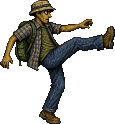
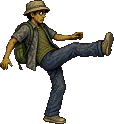
Co-op: sestreleny lezi, nez ho druhy zvedne; nocni prace hosta i u druheho
Sestreleny spravce v co-opu lezi, kde padl (druhy ho vidi lezet, noc ho
necha), druhy ho E zvedne (35 zdravi), jinak po 90 s schody kancelare.
Nocni prace planuje host a druhy stroj je ted vidi taky: seznam TONIGHT,
pager, smerovka, "sorted" kdyz je kdokoli vyresi. Ohne hosta se posilaji
kazde 4 s (palivo, zhave uhliky, hranice). Hoste s kopem a palkou
pregenerovani zrnite a znepokojive jako originaly (byli moc vesele).

coop_check: spolecne sestreleni a zvednuti; druhy spi ve stanu (jedna
postel v kancelari); uklid v chatce: kurzor na viditelne skvrne, jen
pred stiskem, druhy se jen otoci hlavou (oba sdileji jeden kurzor OS).

Changed region(s): [[0.0, 0.0, 1.0, 1.0]]

diff --git a/godot/tools/coop_check.py b/godot/tools/coop_check.py
@@ -48,7 +48,7 @@ def diff_list(name, a, b, failures):
 def main():
     os.makedirs(OUT, exist_ok=True)
     for f in os.listdir(OUT):
-        if f.endswith(".json") or f.endswith(".png") or f in ("host_up", "client_ready"):
+        if f.endswith(".json") or f.endswith(".png") or f in ("host_up", "client_ready", "task_host", "task_client"):
             os.remove(os.path.join(OUT, f))
     host = run("host")
     time.sleep(2.0)
@@ -125,6 +125,17 @@ def main():
             failures.append("the host's kicks are not seen on the other court %s" % cc["court_kicked"])
         if not hc["att_mate"] or not cc["att_mate"]:
             failures.append("the other warden is not seen on the court (host %r, client %r)" % (hc["att_mate"], cc["att_mate"]))
+    # Knocked down: the other warden lies there (seen so on the host's), and is got up.
+    cd, hd, cl = load("client_down"), load("host_down"), load("client_lifted")
+    if cd is None or hd is None or cl is None:
+        failures.append("missing knocked-down fingerprints")
+    else:
+        if not cd["down"]:
+            failures.append("the other warden did not go down (%s)" % cd["hp"])
+        if not hd["partner_down"] or hd["other_pose"] != "prone":
+            failures.append("the host does not see the other warden lying there (%s, %s)" % (hd["partner_down"], hd["other_pose"]))
+        if cl["down"] or cl["hp"] != 35:
+            failures.append("the other warden was not got up (down %s, hp %s)" % (cl["down"], cl["hp"]))
     # The room: the other's job done in the host's camp, the host's back in the other's.
     hr, cr = load("host_room"), load("client_room")
     if hr is None or cr is None:
@@ -246,6 +257,10 @@ def main():
     if "Coop: the night, here: knock" not in ctext:
         failures.append("the night director's knock did not reach the other warden")
     # Sleep: alone in bed the night stays; both in bed, both wake on the next morning.
+    # One bed in the back room: the other is turned away from it (they sleep in a tent).
+    crb = load("client_refused_bed")
+    if crb is not None and crb["in_bed"]:
+        failures.append("both wardens lie in the one bed of the back room")
     hz, hm, cm = load("host_waiting"), load("host_morning"), load("client_morning")
     if hz is None or hm is None or cm is None:
         failures.append("missing sleep fingerprints (waiting %s, host morning %s, other morning %s)" % (hz is not None, hm is not None, cm is not None))

diff --git a/TODO.md b/TODO.md
@@ -18,6 +18,7 @@
   - 18. 10.: the attractions for the warden, alone or two (`scripts/attractions/warden_play.gd`): E by one and you are in it as a guest is, from your own eyes: sit by the fire (a log on from the pile, LMB a sausage over the coals and eaten when done, Q the guitar), on a bench, at the picnic table, in the hammock, on the swing (LMB pumps) or the seesaw, down the slide (up the ladder, LMB at the top), at the nohejbal net and the ping-pong table (LMB in time kicks or hits the ball coming to you; missed, it rolls off and you fetch it). The other warden is seen in them (their figure placed by the same attraction); the ball games are the host's (each flight sent over, the other's swings sent to the host), the logs go on through the host. New sprites for the four wardens (guitar, sausage, kick, bat, ladder, swing) and the guests' kick and bat
 - [ ] 5  The night for two: the director knows both; enemies hunt either; sometimes only one sees it; a hidden sanity per warden (no meter, never named)
   - 18. 10. (`scripts/coop/coop_night.gd`): the host's enemies hunt either warden (the other has a stand-in body there, `coop_proxy.gd`), whoever is out and alone in the dark sooner, and let go of one gone indoors; their hits and feed lines go to whom they hunt; the other machine shows them as on the host's (sprites, lights, sounds, 10x a second). Some are only for the one hunted (the other sees and hears nothing). The hidden sanity: hits, an enemy in front of you, the dark alone wear it down, day, company and sleep give it back; low, the night picks you sooner, more is only yours, and you glimpse the other warden where they are not. Down in co-op you come to on the office step instead of the game ending. The night director presses on one warden at a time (the one out, else the one with less sanity, held 40 s); its touches happen on that one's machine, and on both when they are together. Omens are each warden's own
+  - 18. 10. (later): tonight's jobs are the host's on the other machine too (the TONIGHT list, the pager, the waypoint, "sorted" when either sorts one out: `night_jobs.coop_take`); knocked down you lie there till the other gets you up with E (90 s, else the office step; the night lets go of you meanwhile); the host's campfires sent every 4 s
 - [ ] 6  Saves of a co-op camp (host), joining a camp already going, a dropped line and back, a name per warden
   - 18. 10.: the host's saves are marked co-op and the CO-OP page's Last camp hosts the newest one (its day and till beside it); joining a camp already going works (the whole camp on joining); a dropped line: the other's figure goes, the joining one is back at the menu and can join again; the other warden is called by the name they chose (Pepa, Ondra, Jana, Bara) in the feed
 

diff --git a/AGENTS.md b/AGENTS.md
@@ -328,6 +328,11 @@ it from `_activate_runtime_enemy_for_night`). Add a row to DESIGN.md §5 and to
   `mate_place()` (remote_player.gd, state "att"). The ball games are the host's in
   co-op: `_launch` sends each flight (`Coop.send_play` "shot"), the other machine only
   follows (`coop_take_shot`) and sends its swings ("press").
+- **Co-op knocked down** (`main._coop_come_to`): health 0 with a partner does not end
+  the game: `_coop_down` (controls off, damage ignored, warden state "dn", the figure
+  lies prone on the other machine, `coop_night._is_out` false); the other's E sends
+  "lift" (`Coop.send_play` -> `main.coop_lifted`), else `COOP_DOWN_WAIT` and the office
+  step. Anything that hurts the warden must go through `damage_player`.
 - **Co-op bus** (`bus_ride.gd`, `town_trip.gd`): each machine runs its own ride; the
   warden state's `bus` ({st, s, go}: stop, seat, under way) is what the other sees. A
   partner aboard and not gone turns that stop's bus into a "hold" special

diff --git a/DESIGN.md b/DESIGN.md
@@ -561,7 +561,9 @@ through for two (TODO.md, CO-OP).
   it just works. Each enemy hunts one warden at a time, the one out and alone in the dark
   sooner; the lower someone's sanity, the sooner the night picks them, the more of it
   is only theirs, and the likelier they glimpse the other warden somewhere they are not.
-  Knocked down in co-op, you come to on the office step: the camp goes on for the other.
+  Knocked down in co-op, you lie where you fell, face in the grass, and the night leaves
+  you be: the other warden can come and haul you up (E), or, nobody coming, you come to
+  on the office step a while later. The camp goes on for the other either way.
 - **The other warden** is a figure like the guests (Grok sprites) with their torch and
   their steps. Each player picks who they are on the CO-OP page, two men and two women
   (Pepa, Ondra, Jana, Bara), and the colour of their jacket; each warden is drawn
